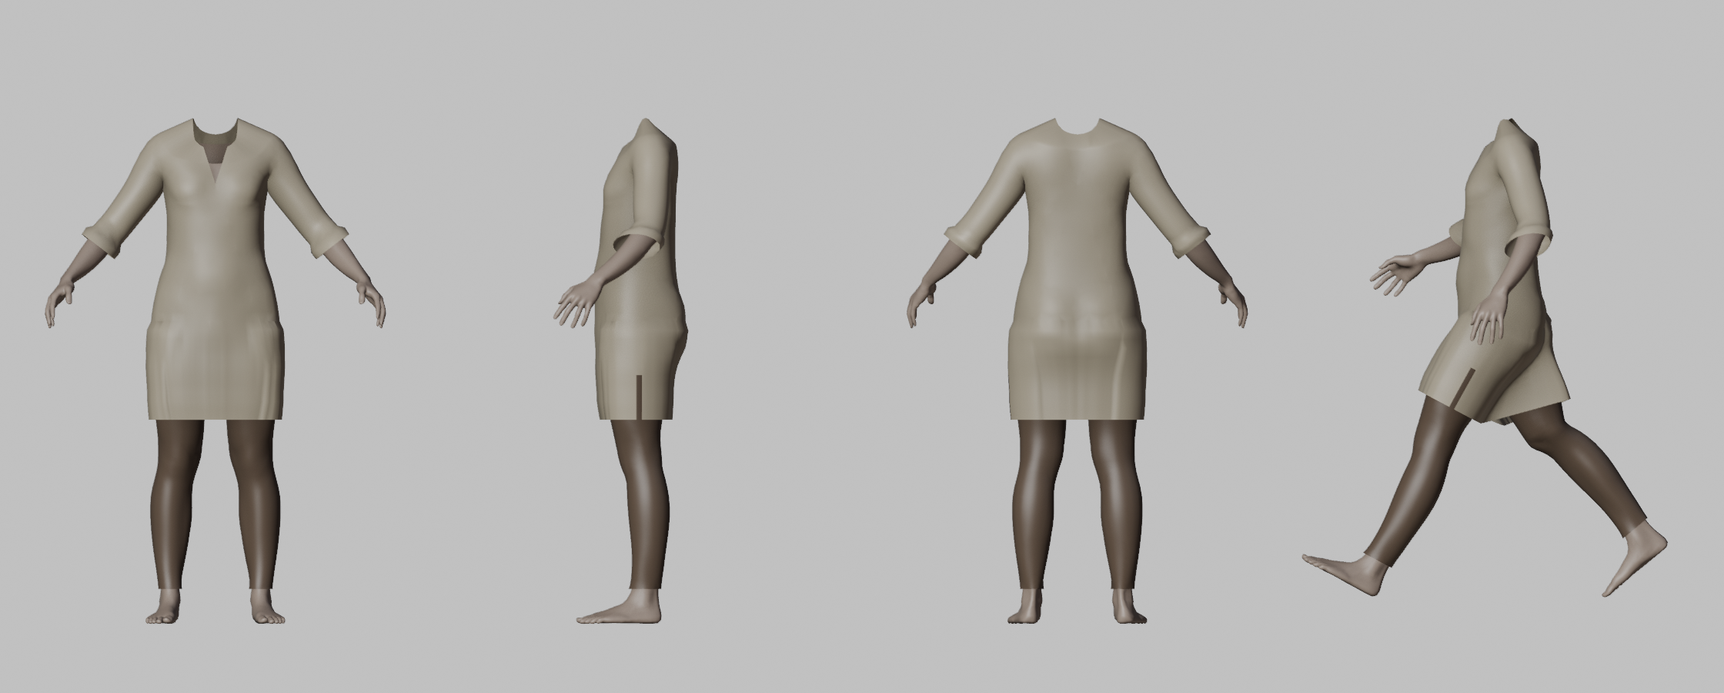
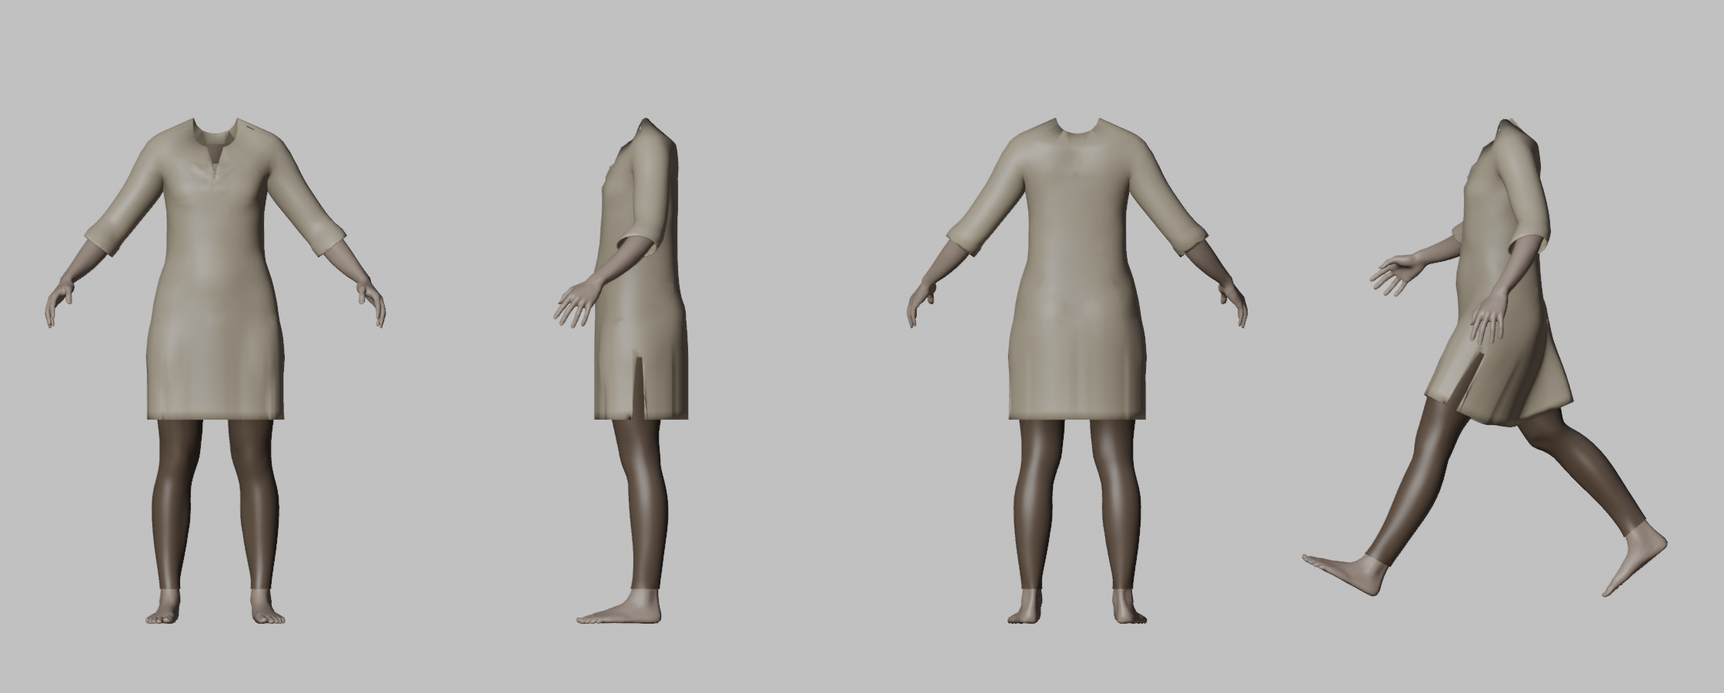
Female player outfit round 2 geometry (Blender): round neck with short slit and trim, straight skirt, open side slits, pelvis-weighted hem
Build-PlayerGarment.py gains options, all off by default (male output verified identical):
- --drape-top: the drape starts above the bust and bridges hollows per slice (no cling under or between the bust).
- --skirt-straight, --join-smooth: the skirt hangs straight from the seat with no taper or bell, and blends into the torso (no hip band).
- --slit-open: the side slits part 3 cm at the hem, shut at the slit top (18 cm).
- --thickness: inner layer plus rims, so hem, slits, neck and cuffs have an edge and a back side.
- --neck-trim: raised band round the neck opening and slit; with --v-depth 7 the slit is ~7 cm.
- --pelvis-hem: front/back skirt panels lean on the pelvis, thighs near the slits.
Female args also flatten the cuffs (4 cm band, 0.4 cm raise) and set leggings 4 mm off the skin.
Blender check renders beside the concept: docs/evidence/player-outfit-female/blender-r2-*.png. Not yet imported to Unreal.

diff --git a/tools/Build-PlayerGarment.py b/tools/Build-PlayerGarment.py
@@ -20,6 +20,9 @@ How it is built (all lengths cm, in the body's own frame):
   the legs; max 8 influences, normalised.
 - UVs: one box projection, 1 UV unit per 40 cm, for a tiling cloth material. Seams fall where the dominant normal axis changes.
 Offset shells follow the body's detail, so pass a larger --tunic-offset for heavier builds.
+Female fit (round 2; each option defaults off, so the male output is unchanged):
+  --drape 1 --drape-top 4 --skirt-ease 2.0 --skirt-flare 0 --skirt-straight 1 --hem 0.7 --join-smooth 6 --slit-height 18 --slit-open 3
+  --thickness 0.3 --neck-trim 1.0 --neck-trim-height 0.25 --v-depth 7 --cuff-width 4 --cuff-bulge 0.4 --leggings-offset 0.4 --pelvis-hem 0.35
 """
 import argparse
 import math
@@ -58,6 +61,15 @@ def parse():
     p.add_argument('--ankle-above-foot', type=float, default=2.5)
     p.add_argument('--uv-cm', type=float, default=40.0)
     p.add_argument('--drape', type=float, default=0.0, help='0..1: the torso hangs straight down from the chest instead of following the waist (1 for the female fit)')
+    # Female round 2 (defaults leave the male output unchanged):
+    p.add_argument('--drape-top', type=float, default=0.0, help='cm above spine_05 where the drape starts; the drape also bridges hollows per slice (no cling under or between the bust)')
+    p.add_argument('--skirt-straight', type=int, default=0, help='1: skirt rings never narrow going down (hangs straight from the seat, no taper or bell)')
+    p.add_argument('--join-smooth', type=int, default=0, help='smoothing passes across the hip join band (no seam/band where the skirt meets the torso)')
+    p.add_argument('--slit-open', type=float, default=0.0, help='cm the side slits open at the hem (tapering shut at the slit top)')
+    p.add_argument('--thickness', type=float, default=0.0, help='cm: give the tunic an inner layer and rims (backfaces and edges at hem, slits, neck, cuffs)')
+    p.add_argument('--neck-trim', type=float, default=0.0, help='cm width of a raised trim band round the neck opening and slit')
+    p.add_argument('--neck-trim-height', type=float, default=0.3)
+    p.add_argument('--pelvis-hem', type=float, default=0.0, help='0..1: weight the front/back skirt panels to the pelvis, thighs only near the side slits')
     return p.parse_args(sys.argv[sys.argv.index('--') + 1:] if '--' in sys.argv else [])
 
 
@@ -267,6 +279,9 @@ def loft_skirt(bm, src, args, z_hem):
     for _ in range(24):  # smooth around the ring (the hull steps read as pleats), then down the rows
         for row in radii[1:]:
             row[:] = [(row[i - 1] + 2 * row[i] + row[(i + 1) % n]) / 4 for i in range(n)]
+    if args.skirt_straight:
+        for k in range(1, rows + 1):
+            radii[k] = [max(a, b) for a, b in zip(radii[k], radii[k - 1])]
     for k in range(1, rows):
         radii[k] = [(radii[k - 1][i] * 0.25 + radii[k][i] * 0.5 + radii[k + 1][i] * 0.25) for i in range(n)]
     ring = [border]
@@ -284,6 +299,15 @@ def loft_skirt(bm, src, args, z_hem):
     right = min(range(n), key=lambda i: abs(th[i]))
     left = min(range(n), key=lambda i: abs(abs(th[i]) - math.pi))
     slit_cols = {right, left}
+    if args.slit_open:  # part the slit's two edges round the ring, wide at the hem, shut at the slit top
+        for k in range(1, rows + 1):
+            z = z0 - (z0 - z_hem) * k / rows
+            u = max(0.0, min(1.0, (z_hem + args.slit_height - z) / args.slit_height))
+            for i in slit_cols:
+                for col, sgn in ((i, -1), ((i + 1) % n, 1)):
+                    v = ring[k][col]
+                    t = Vector((-math.sin(th[col]), math.cos(th[col]), 0))
+                    v.co += t * (sgn * 0.5 * args.slit_open * u)
     for k in range(rows):
         zmid = z0 - (z0 - z_hem) * (k + 0.5) / rows
         for i in range(n):
@@ -294,7 +318,7 @@ def loft_skirt(bm, src, args, z_hem):
     return [v for row in ring[1:] for v in row]
 
 
-def drape(bm, src, z_bottom, z_top, amount, bins=72):
+def drape(bm, src, z_bottom, z_top, amount, bins=72, bridge=False):
     """Cloth falls from the widest point above: below z_top each torso vertex is pushed out to the largest radius (around the torso axis,
     per angular bin) of any vertex above it down from z_top, so the tunic hangs off the chest instead of hugging the waist."""
     bm.verts.index_update()
@@ -305,6 +329,21 @@ def drape(bm, src, z_bottom, z_top, amount, bins=72):
     cx = sum(v.co.x for v in band) / len(band)
     cy = sum(v.co.y for v in band) / len(band)
     radius = lambda v: math.hypot(v.co.x - cx, v.co.y - cy)
+    if bridge:  # cloth spans hollows: push each slice out to its convex hull (between and under the bust, along the spine)
+        slices = {}
+        for v in band:
+            slices.setdefault(int(v.co.z // 1.5), []).append(v)
+        for vs in slices.values():
+            if len(vs) < 6:
+                continue
+            poly = hull([(v.co.x, v.co.y) for v in vs])
+            sx, sy = sum(v.co.x for v in vs) / len(vs), sum(v.co.y for v in vs) / len(vs)
+            for v in vs:
+                dx, dy = v.co.x - sx, v.co.y - sy
+                r = math.hypot(dx, dy)
+                h = ray_hull(poly, (sx, sy), math.atan2(dy, dx))
+                if r > 1e-6 and h > r:
+                    v.co.x, v.co.y = sx + dx * h / r, sy + dy * h / r
     floor = {v: radius(v) for v in band}  # the shell is already clear of the skin: never pull cloth inside it
     best = [0.0] * bins
     for v in sorted(band, key=lambda v: -v.co.z):
@@ -384,6 +423,63 @@ def rolled_cuff(bm, a_pt, direction, plane_d, width, bulge, armv):
                 v.co += radial.normalized() * bulge * s
 
 
+def away_from_skin(src, v):
+    loc, nor, _i, _d = src.nearest(v.co)
+    d = v.co - loc
+    return d.normalized() if d.length > 1e-6 else nor
+
+
+def neck_trim(bm, src, args, armv):
+    """A raised band of --neck-trim cm along the neck opening and its slit: the stitched trim."""
+    import heapq
+    edge = [v for v in bm.verts if v.is_boundary and v.co.z > args.zjoin + 4 and armv.get(v.index, 0) < 0.3]
+    dist = {v: 0.0 for v in edge}
+    heap = [(0.0, v.index, v) for v in edge]
+    while heap:
+        d, _i, v = heapq.heappop(heap)
+        if d > dist[v]:
+            continue
+        for e in v.link_edges:
+            o = e.other_vert(v)
+            nd = d + e.calc_length()
+            if nd < args.neck_trim and nd < dist.get(o, 1e9):
+                dist[o] = nd
+                heapq.heappush(heap, (nd, o.index, o))
+    for v, d in dist.items():
+        v.co += away_from_skin(src, v) * args.neck_trim_height * (1.0 if d < args.neck_trim * 0.8 else 0.5)
+
+
+def smooth_join(bm, src, args):
+    """Blend the torso shell into the skirt's top rows so the hip join reads as one panel, not a band."""
+    bm.verts.index_update()
+    armv = vert_arm(src, bm)
+    band = [v for v in bm.verts if abs(v.co.z - args.zjoin) < 8 and armv[v.index] < 0.2 and not v.is_boundary]
+    for _ in range(args.join_smooth):
+        bmesh.ops.smooth_vert(bm, verts=band, factor=0.5, use_axis_x=True, use_axis_y=True, use_axis_z=False)
+    for v in band:
+        loc, nor, _i, dist = src.nearest(v.co)
+        if dist < args.clearance:
+            v.co = loc + away_from_skin(src, v) * args.clearance
+
+
+def thicken(bm, t, skirt):
+    """Inner layer t cm inside the cloth plus rims on every open edge, so hems, slits and the neck show an edge and a back side."""
+    bm.normal_update()
+    rim = []
+    for e in bm.edges:
+        if e.is_boundary:
+            l = e.link_loops[0]
+            rim.append((l.vert, l.link_loop_next.vert))
+    faces = bm.faces[:]
+    inner = {v: bm.verts.new(v.co - v.normal * t) for v in bm.verts[:]}
+    for f in faces:
+        bm.faces.new([inner[v] for v in reversed(f.verts)])
+    for a, b in rim:
+        bm.faces.new((b, a, inner[a], inner[b]))
+    bm.verts.ensure_lookup_table()
+    return skirt | {inner[v] for v in skirt}
+
+
 def build(args, src, arm):
     bones = arm.data.bones
     head = lambda n: Vector(bones[n].head_local)
@@ -407,7 +503,7 @@ def build(args, src, arm):
     tun = shell(src, args.tunic_offset, extra_arm=args.sleeve_extra, smooth=4, clearance=args.clearance)
     cut(tun, Vector((0, 0, z_join)), Vector((0, 0, 1)), keep_negative=False)
     if args.drape:
-        drape(tun, src, z_join, head('spine_05').z, args.drape)
+        drape(tun, src, z_join, head('spine_05').z + args.drape_top, args.drape, bridge=args.drape_top > 0)
     cuff = []
     for side in ('l', 'r'):
         a, e = head(f'upperarm_{side}'), head(f'lowerarm_{side}')
@@ -421,10 +517,20 @@ def build(args, src, arm):
         rolled_cuff(tun, a, d, dist, args.cuff_width, args.cuff_bulge, armv)
     raise_collar(tun, args)
     add_v_split(tun, args)
+    if args.neck_trim or args.thickness:  # close the body mesh's pinholes first, or they get trims and rims (a dash on the shoulder)
+        bmesh.ops.holes_fill(tun, edges=[e for e in tun.edges if e.is_boundary], sides=12)
+    if args.neck_trim:
+        tun.verts.index_update()
+        neck_trim(tun, src, args, vert_arm(src, tun))
     skirt = loft_skirt(tun, src, args, z_hem)
+    if args.join_smooth:
+        smooth_join(tun, src, args)
+    bmesh.ops.recalc_face_normals(tun, faces=tun.faces[:])
+    skirt = set(skirt)
+    if args.thickness:
+        skirt = thicken(tun, args.thickness, skirt)
     tun.verts.index_update()
     skirt_idx = {v.index for v in skirt}
-    bmesh.ops.recalc_face_normals(tun, faces=tun.faces[:])
 
     # --- one bmesh: tunic (slot 0) then leggings (slot 1) ---
     out = bmesh.new()
@@ -455,7 +561,7 @@ def build(args, src, arm):
     return out, skirt_ids
 
 
-def skin(out, src, skirt_ids):
+def skin(out, src, skirt_ids, args):
     W = [src.weights_at(v.co) for v in out.verts]
     for _ in range(14):  # smooth the skirt so it follows both thighs and does not tear between them
         nxt = {}
@@ -469,6 +575,18 @@ def skin(out, src, skirt_ids):
             new = {n: 0.5 * W[i].get(n, 0.0) + 0.5 * acc.get(n, 0.0) for n in set(W[i]) | set(acc)}
             nxt[i] = new
         for i, w in nxt.items():
+            W[i] = w
+    if args.pelvis_hem and skirt_ids:  # front/back panels ride the pelvis (no wrap between the thighs); thighs only near the slits
+        cx = sum(out.verts[i].co.x for i in skirt_ids) / len(skirt_ids)
+        cy = sum(out.verts[i].co.y for i in skirt_ids) / len(skirt_ids)
+        for i in skirt_ids:
+            c = out.verts[i].co
+            side = abs(math.cos(math.atan2(c.y - cy, c.x - cx)))
+            f = (1 - args.pelvis_hem) + args.pelvis_hem * side ** 2
+            depth = min(1.0, max(0.0, (args.zjoin - c.z) / 6.0))  # top rows keep the shell's weights: no step at the join
+            f = 1 - depth * (1 - f)
+            w = {n: x * f for n, x in W[i].items()}
+            w['pelvis'] = w.get('pelvis', 0.0) + (1 - f)
             W[i] = w
     for i, w in enumerate(W):
         top = sorted(w.items(), key=lambda kv: -kv[1])[:8]
@@ -597,7 +715,7 @@ def main():
     body, arm = import_body(args.body)
     src = Source(body)
     bm, skirt_ids = build(args, src, arm)
-    W = skin(bm, src, skirt_ids)
+    W = skin(bm, src, skirt_ids, args)
     ob = make_object(bm, W, body, arm)
     print('GARMENT', len(bm.verts), 'verts', len(bm.faces), 'faces')
     if args.render:

diff --git a/docs/dependency-map/characters.md b/docs/dependency-map/characters.md
@@ -1,7 +1,7 @@
 # Characters
 
 Player character and controls (GFX-01 WP7, [CTL-01](decisions/CTL-01-player-camera-controls.md)): `Characters/SFE1Character.*` renders `/Game/Mannequin` SK_Mannequin with ThirdPerson_AnimBP (cooked via `DirectoriesToAlwaysCook`; not loaded on a dedicated server) and, under every `ASFE1PlayerController` (build mode layers `IMC_Build`: E/F/LMB stay with construction), the WoW-style camera/movement polled from Enhanced Input assets `/Game/Frontier/Input/IMC_Player` + `IA_*` (`tools/Create-PlayerInputAssets.py`; plugin enabled, `EnhancedPlayerInput`/`EnhancedInputComponent` defaults in `DefaultInput.ini`). Tuning: `USFE1Settings` Camera/Movement. `DefaultInput.ini` carries no legacy action/axis mappings (the character's legacy bindings and `IA_BuildReserved` are gone; the sandbox controller binds E/F with `BindKey`). Check: `GameClient/ArtSource/PlayerCharacter/review_player_in_game.py` (-game at the WP8 forest bookmark; evidence `docs/evidence/graphics/wp7-player/`). GM-01 build-mode review: `tools/Test-BuildModeInput.ps1` runs `-game` on `/Game/Frontier/Maps/Dev/BuildMode/BuildMode_Review` (made by `tools/Create-BuildModeDevMap.py`; `IsConstructionFixtureMap` in `SFConstructionNetwork.cpp` admits any `/Maps/Dev/` map), `tools/review_build_mode_in_game.py` injects every `IMC_Player`/`IMC_Build` action and the controller logs `INPUT_ACTION <name>` (non-shipping); evidence `docs/evidence/gm01-build-mode/`. Character art source: `GameClient/ArtSource/PlayerCharacter/`. The image-to-3D Adventurer-01 body was rejected and is not loaded; the MetaHuman plan (script/editor/owner steps) is `GameClient/ArtSource/PlayerCharacter/README.md`.
-Player MetaHuman (owner decision: MetaHuman bodies, gear via Mutable; [README](../GameClient/ArtSource/Characters/Player/README.md)): `tools/Build-PlayerMetaHumans.py` builds each face in `ArtSource/Characters/Player/faces.json` from a MetaHuman Creator preset (grooms per face, optional "skin": [u, v] tone, optional "makeup": "none" clears preset makeup, faces built one per editor run (a multi-face run ran out of memory), cloud auto-rig + textures with the editor's Epic sign-in, OPTIMIZED/MEDIUM assembly) into `/Game/Frontier/Characters/Player/{Faces,Built}`. Those folders are git-ignored (~100 MB per face plus ~250 MB shared), so every machine runs the script; it needs the full editor (`UnrealEditor.exe <uproject> -RenderOffscreen -unattended -nosplash -ExecCmds="py <abs script>"`, PowerShell) because assembly bakes textures. `tools/Create-PlayerRetarget.py` makes `Retarget/{IK_SF_Mannequin, IK_SF_MetaHuman, RTG_SF_MannequinToMetaHuman}`. `ASFE1Character::SpawnPosedMetaHuman` (face from the replicated `FaceId`, default Orlando, mapped to the fixed `Built/MHC_<id>/BP_MHC_<id>` path; server-set through `SetFaceId`, which rejects ids outside the `USFE1Settings::PlayerFaceIds` list shipped in `Config/DefaultGame.ini` (`FemaleFaceIds`, a validated subset, wear `OutfitFemale`); `OnRep_FaceId` swaps the body on clients; `USFCharacterSessionComponent` applies the stored `face_id` from `GetCharacterState` to the pawn once it exists; the character creator will set it later; `MetaHumanRetargeter`) attaches the MetaHuman to the hidden but still animating UE4 mannequin; `Characters/SFMetaHumanRetarget.*` (`USFMetaHumanRetargetAnimInstance`, a native proxy running `FAnimNode_RetargetPoseFromMesh`) poses its body every frame, so all gameplay animation and networking are unchanged. The Equipment preview studio spawns its own copy the same way and rebuilds it on `ASFE1Character::OnFaceChanged`. Without a built face the mannequin shows (`PLAYER_METAHUMAN_MISSING`). Preset and built-face contact sheets: `tools/Render-MetaHumanPresets.py` (`MH_PRESETS` for built faces), `Make-PresetSheet.py`, `Export-HairThumbs.py` -> `ArtSource/Characters/Player/presets/`. MetaHumanCharacter and Mutable plugins are denied on the Server target. Crowd gate: `tools/Measure-PlayerCrowd.ps1` + `measure_player_crowd.py` drive the dev commands `SFCrowdTest N` (bodies cycle through `PlayerFaceIds`) / `SFFrameSample`; `SFFace <id>` sets the local player's face through a server RPC (`Framework/SFPlayerControllerCrowdTest.cpp`); results in [player-crowd-gate](../evidence/player-crowd-gate/README.md) (30 bodies: GPU +1.25 ms, game thread +4.2 ms on an RTX 3060).
+Player MetaHuman (owner decision: MetaHuman bodies, gear via Mutable; [README](../GameClient/ArtSource/Characters/Player/README.md)): `tools/Build-PlayerMetaHumans.py` builds each face in `ArtSource/Characters/Player/faces.json` from a MetaHuman Creator preset (grooms per face, optional "skin": [u, v] tone, optional "freckles": 1-3, optional "hair_color": [melanin, redness] dyes every groom (set on the preview collection, copied in before the build), optional "makeup": "none" clears preset makeup, faces built one per editor run (a multi-face run ran out of memory), cloud auto-rig + textures with the editor's Epic sign-in, OPTIMIZED/MEDIUM assembly) into `/Game/Frontier/Characters/Player/{Faces,Built}`. Those folders are git-ignored (~100 MB per face plus ~250 MB shared), so every machine runs the script; it needs the full editor (`UnrealEditor.exe <uproject> -RenderOffscreen -unattended -nosplash -ExecCmds="py <abs script>"`, PowerShell) because assembly bakes textures. `tools/Create-PlayerRetarget.py` makes `Retarget/{IK_SF_Mannequin, IK_SF_MetaHuman, RTG_SF_MannequinToMetaHuman}`. `ASFE1Character::SpawnPosedMetaHuman` (face from the replicated `FaceId`, default Orlando, mapped to the fixed `Built/MHC_<id>/BP_MHC_<id>` path; server-set through `SetFaceId`, which rejects ids outside the `USFE1Settings::PlayerFaceIds` list shipped in `Config/DefaultGame.ini` (`FemaleFaceIds`, a validated subset, wear `OutfitFemale`); `OnRep_FaceId` swaps the body on clients; `USFCharacterSessionComponent` applies the stored `face_id` from `GetCharacterState` to the pawn once it exists; the character creator will set it later; `MetaHumanRetargeter`) attaches the MetaHuman to the hidden but still animating UE4 mannequin; `Characters/SFMetaHumanRetarget.*` (`USFMetaHumanRetargetAnimInstance`, a native proxy running `FAnimNode_RetargetPoseFromMesh`) poses its body every frame, so all gameplay animation and networking are unchanged. The Equipment preview studio spawns its own copy the same way and rebuilds it on `ASFE1Character::OnFaceChanged`. Without a built face the mannequin shows (`PLAYER_METAHUMAN_MISSING`). Preset and built-face contact sheets: `tools/Render-MetaHumanPresets.py` (`MH_PRESETS` for built faces), `Make-PresetSheet.py`, `Export-HairThumbs.py` -> `ArtSource/Characters/Player/presets/`. MetaHumanCharacter and Mutable plugins are denied on the Server target. Crowd gate: `tools/Measure-PlayerCrowd.ps1` + `measure_player_crowd.py` drive the dev commands `SFCrowdTest N` (bodies cycle through `PlayerFaceIds`) / `SFFrameSample`; `SFFace <id>` sets the local player's face through a server RPC (`Framework/SFPlayerControllerCrowdTest.cpp`); results in [player-crowd-gate](../evidence/player-crowd-gate/README.md) (30 bodies: GPU +1.25 ms, game thread +4.2 ms on an RTX 3060).
 CTL-02 combat framing camera: `Characters/SFE1Character.*` extends CTL-01 with local CombatTarget/dialogue-speaker framing, steering hold, occlusion and target DoF; `Characters/SFCombatFramingLogic.h` owns pure blend/zoom/aim transitions; `Framework/SFE1Settings.*` declares bounded release controls; `Framework/SFGameUserSettings.h` saves player framing, DoF and fixed shoulder preferences. `Config/Default{Engine,Game,DeviceProfiles,Scalability}.ini` select the settings class, defaults and DoF tier. `Combat/SFCombatPilot.cpp` uses pawn forward for melee. Focused test: `ShatteredFrontier.Camera.CombatFraming.Logic` (run after shared compile). Dialogue UI must call `SetDialogueFramingTarget` on open/close.
 | Townsfolk prototype (steps 2-4) | Inputs: `GameClient/ArtSource/Greenlands/townsfolk_census.py` (hours from `ArtSource/Townsfolk/townsfolk-archetypes.json`) `townsfolk_smartobjects.py` (doors, stalls, benches -> `silverbrook-smartobjects.json`; the builder calls it, `USFTownsfolkSubsystem` creates Smart Objects from it; needs `SmartObjectsModule` and `GameplayTags` in the Build.cs) and `townsfolk_lanes.py` (town-wide ZoneGraph footway shapes via `USFTownsfolkLaneLibrary`; called by `build_silverbrook.py` with heightfield and water tests; lane profile in `Config/DefaultPlugins.ini`). Runtime: `Source/ShatteredFrontier/{Public,Private}/Townsfolk/SFTownsfolk.*`, Mass entities driven by a schedule processor on lane routes with sidestep avoidance, drawn by MassRepresentation through MassCrowd's visualization trait (entities carry `FMassCrowdTag`; modules MassLOD, MassRepresentation, MassActors, MassCrowd). Opt in with `-TownsfolkPrototype` on Greenlands_Silverbrook; never on a dedicated server; settings `USFTownsfolkSettings`, including `Looks` (archetype -> skeletal mesh and clips, mannequin fallback). Evidence: `review_townsfolk_in_game.py` (TOWNSFOLK_HOUR log lines plus captures). Step 4: the authority spawns the replicated `ASFTownState` (clock, open markets, danger cells; settings category *Town state*) on Silverbrook; `USFClientSmartObjectSubsystem` gives NM_Client the SmartObject subsystem. Attack and quest hand-off: `ASFTownsfolkNpc` (replicated stand-in, flee), `USFTownsfolkHandoffComponent` (server RPCs on each player controller), `RequestQuestHandoff`/`ReleaseQuestHandoff`; `SFE1Character::PilotAttack` calls in, and the quest pilot's `talk_resident` objective holds a shared resident (`QuestHolds`; quest record from the typed `QuestFile`, e.g. `content/quests/silverbrook_introductions.json`; roles validated by `QuestContent.Tool` against `townsfolk-archetypes.json`). Check: `tools/Test-TownsfolkNetwork.ps1 -Leg Attack|Quest` (dedicated server + two NullRHI clients, UDP 17850). Integ1 attack rerun on 2026-10-22 passed with `-DayMinutes 20 -Port 17934` (`Artifacts/Townsfolk/network-attack-20261022-042224-294/results.json`): shared actor hit/release, both client returns, clock/market/danger checks. Default 4-minute and 8-minute runs failed before hand-off because the client did not reach a resident during the short shift; the runner now defaults to the passing 20-minute test day, which keeps the market close inside the 120-second sample. Step 5: residents fight back then flee; `ASFTownGuard` (patrol, witness, engage); replicated offender list on `ASFTownState` (`SFTownCrime`); NPC hits on players go through `ASFGameMode::HitPlayer`; settings category *Crime and guards*. Tests `ShatteredFrontier.Townsfolk.Crime` (`Private/Tests/SFTownsfolkCrimeTests.cpp`); dev map `/Game/Frontier/Maps/Dev/TownsfolkGuards` (`tools/Create-TownsfolkGuardsMap.py`, `-game -TownsfolkCrimeScenario`); [evidence and Silverbrook wiring](evidence/townsfolk-crime-guards.md). | Working on town NPCs, ZoneGraph lanes, Mass processors, or the census hours. |
 | Townsfolk network day lengths (tf01) | `tools/Test-TownsfolkNetwork.ps1` places the typed server-only market close inside its sample. `SFTownsfolk.cpp` selects a civilian worker by ZoneGraph route time versus real shift time, keeps that target until work ends, and rejects stalled routes; shipped schedules and movement settings stay unchanged. A fixed 12:00 close missed the 4-minute sample even after a successful resident hit; short shifts and blocked guard posts also made the old target chase unreliable. `Build.bat` succeeded. Post-rebase attack results (`-DayMinutes 4`, `8`, `20`): `Artifacts/Townsfolk/network-attack-20261022-094003-477/results.json`, `Artifacts/Townsfolk/network-attack-20261022-094249-700/results.json`, `Artifacts/Townsfolk/network-attack-20261022-094516-700/results.json` (all Passed). This supersedes the short-day failure note in the prototype row. | Re-run `tools/Test-TownsfolkNetwork.ps1 -Leg Attack` at 4, 8 and 20 minutes when changing the client scenario, town schedule, lanes or market sampling. |
@@ -45,4 +45,4 @@ Voidreign skin/clip quality loop: `Build-MountClipLibrary.py` bounds hair-chain 
 
 For general Pixal/TRELLIS generation tools, see [art pipeline](art-pipeline.md); for combat rules, see [gameplay](gameplay.md).
 
-Player outfit (Mutable): `tools/Build-PlayerGarment.py` (Blender: tunic + leggings fitted to a "bare" body FBX from `tools/Export-PlayerBaseBody.py`; faces.json `"bare": true` builds it), `tools/Build-GarmentBodyClip.py` (Blender: the body patch the garment covers), `tools/Import-PlayerGarment.py` (-> `/Game/Frontier/Characters/Player/Garments/`, incl. `SKM_Tunic_Leggings_BodyClip`), then `tools/Create-PlayerOutfit.py` builds and compiles `Outfit/CO_PlayerOutfit` (bare body minus the patch via Remove Mesh, plus the garment sections), wiring the graph through `Characters/SFGraphAuthoring.*` (editor-only pin linking for scripts). Female fit: faces.json `HildaBare` body, `Build-PlayerGarment.py --drape 1` (tunic hangs from the chest; neck height scales with the body) -> `_f` FBXs, `SF_OUTFIT_SUFFIX=_F` + `SF_BARE_FACE=HildaBare` for import/outfit -> `SKM_Tunic_Leggings_F`, `Outfit/CO_PlayerOutfit_F`; every female face gets Hilda's body shape. `ASFE1Character::Outfit` (or `OutfitFemale` for `USFE1Settings::FemaleFaceIds`) puts an instance on the MetaHuman's Body in `SpawnPosedMetaHuman` (`UCustomizableSkeletalComponent`; `SF_WITH_MUTABLE` is 0 on the Server target). Review shots: `tools/Capture-PlayerOutfit.py` (in game: walking, then front, three-quarter and side; env `SF_FACE` switches face first) -> `docs/evidence/player-outfit/`, female `docs/evidence/player-outfit-female/`.
+Player outfit (Mutable): `tools/Build-PlayerGarment.py` (Blender: tunic + leggings fitted to a "bare" body FBX from `tools/Export-PlayerBaseBody.py`; faces.json `"bare": true` builds it), `tools/Build-GarmentBodyClip.py` (Blender: the body patch the garment covers), `tools/Import-PlayerGarment.py` (-> `/Game/Frontier/Characters/Player/Garments/`, incl. `SKM_Tunic_Leggings_BodyClip`), then `tools/Create-PlayerOutfit.py` builds and compiles `Outfit/CO_PlayerOutfit` (bare body minus the patch via Remove Mesh, plus the garment sections), wiring the graph through `Characters/SFGraphAuthoring.*` (editor-only pin linking for scripts). Female fit: faces.json `HildaBare` body, `Build-PlayerGarment.py` with the female args in its header (`--drape`, straight skirt, open side slits, inner layer, neck trim, pelvis-weighted hem; all off by default so the male output is unchanged; neck height scales with the body) -> `_f` FBXs, `SF_OUTFIT_SUFFIX=_F` + `SF_BARE_FACE=HildaBare` for import/outfit -> `SKM_Tunic_Leggings_F`, `Outfit/CO_PlayerOutfit_F`; every female face gets Hilda's body shape. `ASFE1Character::Outfit` (or `OutfitFemale` for `USFE1Settings::FemaleFaceIds`) puts an instance on the MetaHuman's Body in `SpawnPosedMetaHuman` (`UCustomizableSkeletalComponent`; after each Mutable update slot 0 gets the face's own body material back, so body skin matches the face; `SF_WITH_MUTABLE` is 0 on the Server target). Review shots: `tools/Capture-PlayerOutfit.py` (in game: walking, then front, three-quarter and side; env `SF_FACE` switches face first) -> `docs/evidence/player-outfit/`, female `docs/evidence/player-outfit-female/`.

diff --git a/docs/evidence/player-outfit-female/REVIEW-round1.md b/docs/evidence/player-outfit-female/REVIEW-round1.md
@@ -1,0 +1,47 @@
+# Female player start outfit: review, round 1
+
+Concepts: `docs/evidence/player-outfit/concept-female/female_starter_turnaround.png`, `female_starter_closeup.png`
+Live pairs: `Hilda_front-compare.png`, `Hilda_three_quarter-compare.png`, `Hilda_side-compare.png` (idle), `Hilda_walk_back-compare.png` (walking)
+Previous open list: none (male round 3 used for context only).
+Out of scope: face, hair, lighting, background, idle pose.
+
+## Hilda_front — FAIL
+
+- The neckline is a deep plunging V down to the sternum. The concept has a high round neck at the base of the throat with a short slit V. A grey patch shows inside the V (an undergarment or body layer showing through). That is breakage.
+- The tunic flares into an A-line skirt from the hip, and the hem is uneven (lower on her left). It reads as a dress. The concept is a straight, loose tunic with side slits and a level hem.
+- There is a lighter shading band across the hips: the same hip seam/panel break as the male version.
+- The cloth is a smooth, fuzzy felt with no linen weave. The colour is saturated yellow-tan; the concept is a grey-beige oatmeal linen.
+- The bodice clings tight over the bust with strong bust shading. The concept hangs loosely from the shoulders.
+- The rolled cuffs are puffy, balloon-like bulbs, not flat folded bands.
+
+## Hilda_three_quarter — FAIL
+
+- Same deep V with grey showing through, same flared and uneven skirt hem, and same felt cloth and yellow colour.
+- The concept's side slit, running from hem to hip, is not visible.
+
+## Hilda_side — FAIL
+
+- The side slit renders as a thin black vertical slot near the hem. It doesn't read as a cloth opening with the legging visible behind it.
+- The skirt bells out behind the seat. The concept drops straight to mid-thigh.
+- The sleeve length is right.
+
+## Hilda_walk_back — FAIL
+
+- The lower tunic wraps the buttocks and pulls into the gap between the thighs, like shorts, instead of hanging as one back panel. This is the same skinning fault as the male version's walk.
+- The whole back surface is speckled and fuzzy (shared noise/TAA shimmer issue).
+- On the lifted leg, the legging edge at the back of the knee and shin is fuzzy and crumpled.
+
+## Shared with the male outfit (not re-litigated)
+
+The hip seam/panel, felt cloth with no weave, speckle under TAA, walk-cycle thigh wrap, plain cuffs, and leggings that read as tights are all present here too.
+
+## Fix list
+
+1. The deep V neckline with grey showing through. ART: rebuild the neck opening as a high round neck at the base of the throat, with a short slit V (about 6-8 cm) and a stitched trim. Hide or delete whatever grey body or undergarment layer shows through in the chest region. Check the front and three-quarter views. Engineer
+2. The flared A-line skirt and uneven hem make it read as a dress. ART: reshape the lower tunic to hang straight from the hips to mid-thigh with a level hem. Remove the flare and the hip panel/seam (one continuous panel, matching albedo). Engineer
+3. The walk-cycle wrap between the thighs and over the buttocks. ART: weight the front and back hem panels mainly to the pelvis, and blend with thigh_l/r only near the side slits. Check every walk frame from behind. Engineer
+4. The side slits are missing or render as a black slot. ART: cut real side slits from the hem to the upper thigh, with backfaces and a hem edge, so the legging shows through. Remove the black slot strip. Engineer
+5. The felt cloth and yellow colour. ART: replace the tunic albedo with grey-beige oatmeal linen matched to the concept close-up. Add a tiling linen weave normal (strength about 0.6, roughness about 0.85, mips on). Confirm in-engine that the back speckle and shimmer are gone. Codex
+6. The tight bust fit. ART: loosen the bodice so it drapes from the shoulders and bust apex without hugging the underbust, and soften the bust shading. Engineer
+7. The balloon cuffs. ART: flatten the rolled cuffs into a folded band about 4 cm deep that sits close to the forearm, with a stitched edge. Codex
+8. The leggings read as smooth tights. ART: add a brown wool knit normal and albedo variation, light folds at the knees and ankles, and a 3-5 mm offset off the skin. Fix the fuzzy, crumpled edge behind the knee in the walk. Codex
